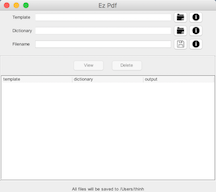
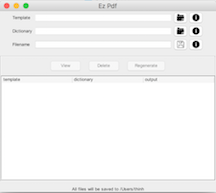
Adding 'Regenerate' button

diff --git a/ezpdf/src/main/java/kkdt/ezpdf/support/UITemplateController.java b/ezpdf/src/main/java/kkdt/ezpdf/support/UITemplateController.java
@@ -9,24 +9,15 @@ import java.awt.Desktop;
 import java.awt.event.ActionEvent;
 import java.awt.event.ActionListener;
 import java.io.File;
-import java.io.FileInputStream;
-import java.io.FileOutputStream;
 import java.io.IOException;
-import java.io.InputStream;
-import java.nio.charset.Charset;
-import java.util.Properties;
 
 import javax.swing.JFileChooser;
 import javax.swing.JOptionPane;
 
-import org.apache.commons.io.IOUtils;
 import org.springframework.core.env.Environment;
 
 import kkdt.ezpdf.support.table.TemplateEntry;
 import kkdt.ezpdf.support.table.TemplateTableController;
-import kkdt.eztemplate.TemplateFactory;
-import kkdt.eztemplate.pdf.PdfOut;
-import kkdt.eztemplate.pdf.TemplateSubstitution;
 
 /**
  * <p>
@@ -68,7 +59,7 @@ public class UITemplateController implements ActionListener {
     private final Environment environment;
     private final UIFrame window;
     private final TemplateTableController tableController;
-    private final File workspace;
+    private final PdfGenerator pdfGenerator;
     private JFileChooser fileChooser;
     private File template = null;
     private File dictionary = null;
@@ -76,7 +67,7 @@ public class UITemplateController implements ActionListener {
     public UITemplateController(UIFrame window, Environment environment, File workspace, TemplateTableController tableController) {
         this.window = window;
         this.environment = environment;
-        this.workspace = workspace;
+        this.pdfGenerator = new PdfGenerator(workspace);
         this.fileChooser = new JFileChooser(workspace);
         this.tableController = tableController;
     }
@@ -93,23 +84,7 @@ public class UITemplateController implements ActionListener {
             JOptionPane.showMessageDialog(null, "Missing template/dictionary files", "Error", JOptionPane.ERROR_MESSAGE);
             return null;
         }
-        
-        final Properties properties = new Properties();
-        try (final InputStream stream = new FileInputStream(dictionary)) {
-            properties.load(stream);
-        }
-        
-        String input = null;
-        try (final InputStream stream = new FileInputStream(template)) {
-            Charset charset = Charset.defaultCharset();
-            input = IOUtils.toString(stream, charset);
-        }
-        
-        File file = workspace.toPath().resolve(filename).toFile();
-        try(FileOutputStream out = new FileOutputStream(file)) {
-            TemplateFactory.buildTemplates(input, new TemplateSubstitution(properties), new PdfOut(out));
-        }
-        return file;
+        return pdfGenerator.generate(template, dictionary, filename);
     }
 
     @Override

diff --git a/ezpdf/src/main/java/kkdt/ezpdf/support/TemplateResultActionListener.java b/ezpdf/src/main/java/kkdt/ezpdf/support/TemplateResultActionListener.java
@@ -9,6 +9,7 @@ import java.awt.Desktop;
 import java.awt.Window;
 import java.awt.event.ActionEvent;
 import java.awt.event.ActionListener;
+import java.io.File;
 import java.nio.file.Files;
 
 import javax.swing.JOptionPane;
@@ -25,10 +26,12 @@ import kkdt.ezpdf.support.table.TemplateTableController;
 public class TemplateResultActionListener implements ActionListener {
     private final Window reference;
     private final TemplateTableController tableController;
+    private final PdfGenerator pdfGenerator;
     
-    public TemplateResultActionListener(Window reference, TemplateTableController tableController) {
+    public TemplateResultActionListener(Window reference, TemplateTableController tableController, PdfGenerator generator) {
         this.reference = reference;
         this.tableController = tableController;
+        this.pdfGenerator = generator;
     }
 
     @Override
@@ -38,9 +41,8 @@ public class TemplateResultActionListener implements ActionListener {
             return;
         }
         
-        TemplateEntry selected = tableController.getSelectedEntry();
-        
         try {
+            TemplateEntry selected = tableController.getSelectedEntry();
             switch(e.getActionCommand()) {
             case "Delete":
                 Files.delete(selected.getOutput().toPath());
@@ -48,6 +50,10 @@ public class TemplateResultActionListener implements ActionListener {
                 break;
             case "View":
                 Desktop.getDesktop().open(selected.getOutput());
+                break;
+            case "Regenerate":
+                File pdf = pdfGenerator.generate(selected.getTemplate(), selected.getDictionary(), selected.getOutput().getName());
+                Desktop.getDesktop().open(pdf);
                 break;
             }
         } catch (Exception er) {

diff --git a/ezpdf/src/main/java/kkdt/ezpdf/support/PdfGenerator.java b/ezpdf/src/main/java/kkdt/ezpdf/support/PdfGenerator.java
@@ -1,0 +1,53 @@
+/** 
+ * Copyright (C) 2018 thinh ho
+ * This file is part of 'eztemplate' which is released under the MIT license.
+ * See LICENSE at the project root directory.
+ */
+package kkdt.ezpdf.support;
+
+import java.io.File;
+import java.io.FileInputStream;
+import java.io.FileOutputStream;
+import java.io.IOException;
+import java.io.InputStream;
+import java.nio.charset.Charset;
+import java.util.Properties;
+
+import org.apache.commons.io.IOUtils;
+
+import kkdt.eztemplate.TemplateFactory;
+import kkdt.eztemplate.pdf.PdfOut;
+import kkdt.eztemplate.pdf.TemplateSubstitution;
+
+/**
+ * UI pdf generator via a template and dictionary files.
+ * 
+ * @author thinh ho
+ *
+ */
+public class PdfGenerator {
+    private final File outputDir;
+    
+    public PdfGenerator(File outputDir) {
+        this.outputDir = outputDir;
+    }
+    
+    public File generate(File template, File dictionary, String filename) throws IOException {
+        final Properties properties = new Properties();
+        try (final InputStream stream = new FileInputStream(dictionary)) {
+            properties.load(stream);
+        }
+        
+        String input = null;
+        try (final InputStream stream = new FileInputStream(template)) {
+            Charset charset = Charset.defaultCharset();
+            input = IOUtils.toString(stream, charset);
+        }
+        
+        File file = outputDir.toPath().resolve(filename).toFile();
+        try(FileOutputStream out = new FileOutputStream(file)) {
+            TemplateFactory.buildTemplates(input, new TemplateSubstitution(properties), new PdfOut(out));
+        }
+        return file;
+    }
+}

diff --git a/ezpdf/src/main/java/kkdt/ezpdf/support/TemplateResultsPanel.java b/ezpdf/src/main/java/kkdt/ezpdf/support/TemplateResultsPanel.java
@@ -28,11 +28,13 @@ public class TemplateResultsPanel extends JPanel {
     private final JTable table;
     private final JButton viewBtn;
     private final JButton deleteBtn;
+    private final JButton regenerateBtn;
     
     public TemplateResultsPanel(JTable table) {
         this.table = table;
         this.viewBtn = new JButton("View");
         this.deleteBtn = new JButton("Delete");
+        this.regenerateBtn = new JButton("Regenerate");
     }
     
     public TemplateResultsPanel viewListener(ActionListener l) {
@@ -42,6 +44,11 @@ public class TemplateResultsPanel extends JPanel {
     
     public TemplateResultsPanel deleteListener(ActionListener l) {
         this.deleteBtn.addActionListener(l);
+        return this;
+    }
+    
+    public TemplateResultsPanel regenerateListener(ActionListener l) {
+        this.regenerateBtn.addActionListener(l);
         return this;
     }
     
@@ -55,6 +62,7 @@ public class TemplateResultsPanel extends JPanel {
         JPanel panel1 = new JPanel();
         panel1.add(viewBtn);
         panel1.add(deleteBtn);
+        panel1.add(regenerateBtn);
         
         setBorder(BorderFactory.createEtchedBorder(EtchedBorder.LOWERED));
         setLayout(new BorderLayout());
@@ -68,5 +76,6 @@ public class TemplateResultsPanel extends JPanel {
     public void enableActions(boolean enable) {
         this.viewBtn.setEnabled(enable);
         this.deleteBtn.setEnabled(enable);
+        this.regenerateBtn.setEnabled(enable);
     }
 }

diff --git a/ezpdf/src/main/java/kkdt/ezpdf/support/UIBuilder.java b/ezpdf/src/main/java/kkdt/ezpdf/support/UIBuilder.java
@@ -45,7 +45,7 @@ public class UIBuilder {
         JTable table = new JTable();
         table.setSelectionMode(ListSelectionModel.SINGLE_SELECTION);
         TemplateTableController tableController = new TemplateTableController(table);
-        TemplateResultActionListener templateActionListener = new TemplateResultActionListener(window, tableController);
+        TemplateResultActionListener templateActionListener = new TemplateResultActionListener(window, tableController, new PdfGenerator(workspace));
         
         UITemplateController uiController = new UITemplateController(window, environment, workspace, tableController);
         
@@ -62,6 +62,7 @@ public class UIBuilder {
         TemplateResultsPanel results = new TemplateResultsPanel(table)
             .deleteListener(templateActionListener)
             .viewListener(templateActionListener)
+            .regenerateListener(templateActionListener)
             .layoutComponents();
         results.enableActions(false);
         

diff --git a/ezpdf/src/main/java/kkdt/ezpdf/support/table/TemplateTableController.java b/ezpdf/src/main/java/kkdt/ezpdf/support/table/TemplateTableController.java
@@ -10,6 +10,12 @@ import javax.swing.JTable;
 import kkdt.generictable.GenericTableController;
 import kkdt.generictable.GenericTableModel;
 
+/**
+ * A table controller for generated templates.
+ * 
+ * @author thinh ho
+ *
+ */
 public class TemplateTableController extends GenericTableController<TemplateEntry> {
     private final JTable table;
     

diff --git a/README.md b/README.md
@@ -15,9 +15,9 @@ This project comprises of 3 modules that provide a way for the user to generate 
 
 Ez Pdf is a simple standalone, thick-client application that runs on the user's local machine. Application data is saved in `$HOME/.ezpdf` which only includes a log file. Prebuilt application artifacts on Dropbox can be found below and support Mac, Windows and Linux.
 
-1. Mac [ezpdf-0.2.dmg](https://www.dropbox.com/s/uuoofhhse3wzijz/ezpdf-0.2.dmg?dl=0)
-2. Linux/Windows [ezpdf-0.2.tar](https://www.dropbox.com/s/vhk22c2wqlox7x8/ezpdf-0.2.tar?dl=0)
-3. Linux/Windows [ezpdf-0.2.zip](https://www.dropbox.com/s/8437g5tja6ys5kf/ezpdf-0.2.zip?dl=0)
+1. Mac [ezpdf-0.2.dmg](https://www.dropbox.com/s/wtustxe129vi5b1/ezpdf-0.2.dmg?dl=0)
+2. Linux/Windows [ezpdf-0.2.tar](https://www.dropbox.com/s/s23vc62e8799mng/ezpdf-0.2.tar?dl=0)
+3. Linux/Windows [ezpdf-0.2.zip](https://www.dropbox.com/s/kuc9r0dsdxzgpq8/ezpdf-0.2.zip?dl=0)
 
 ### Common Use Case
 
